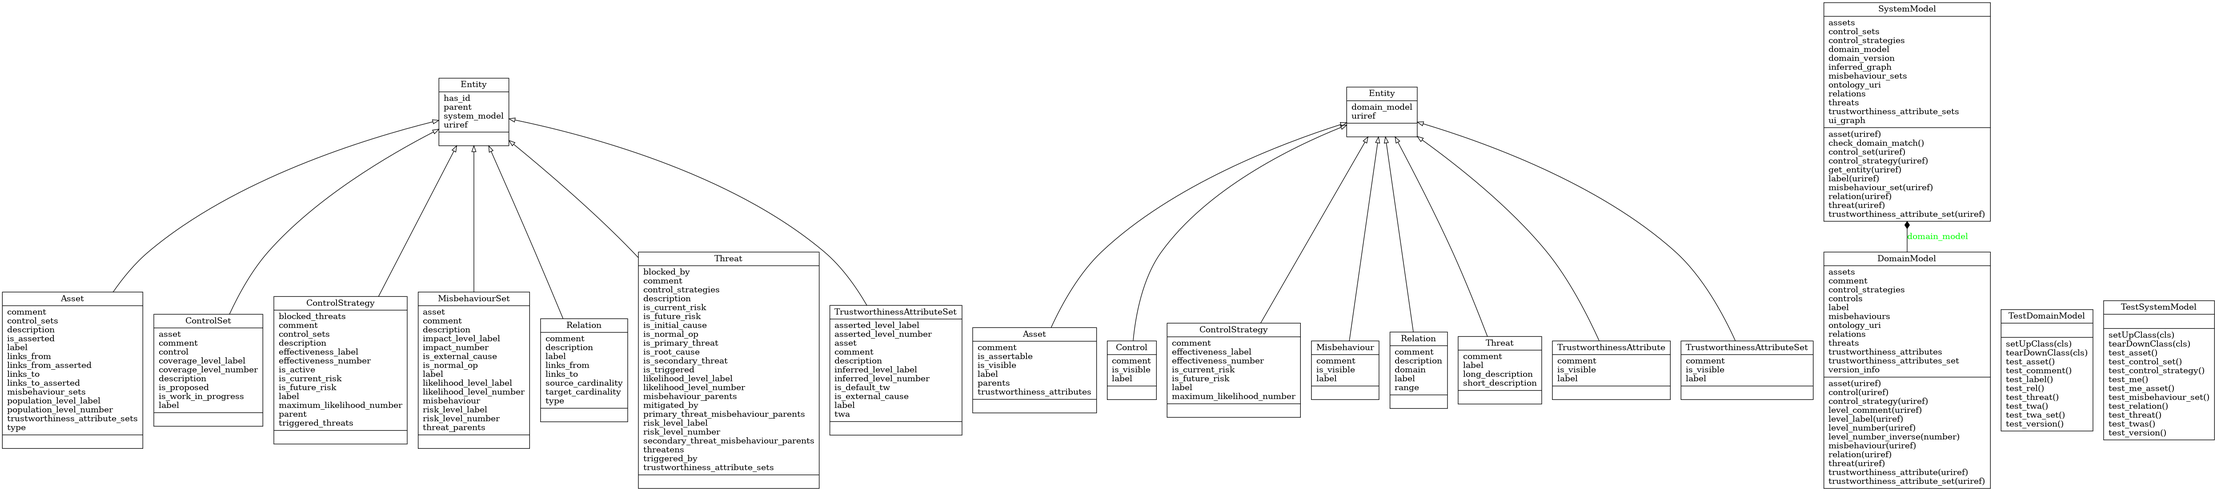
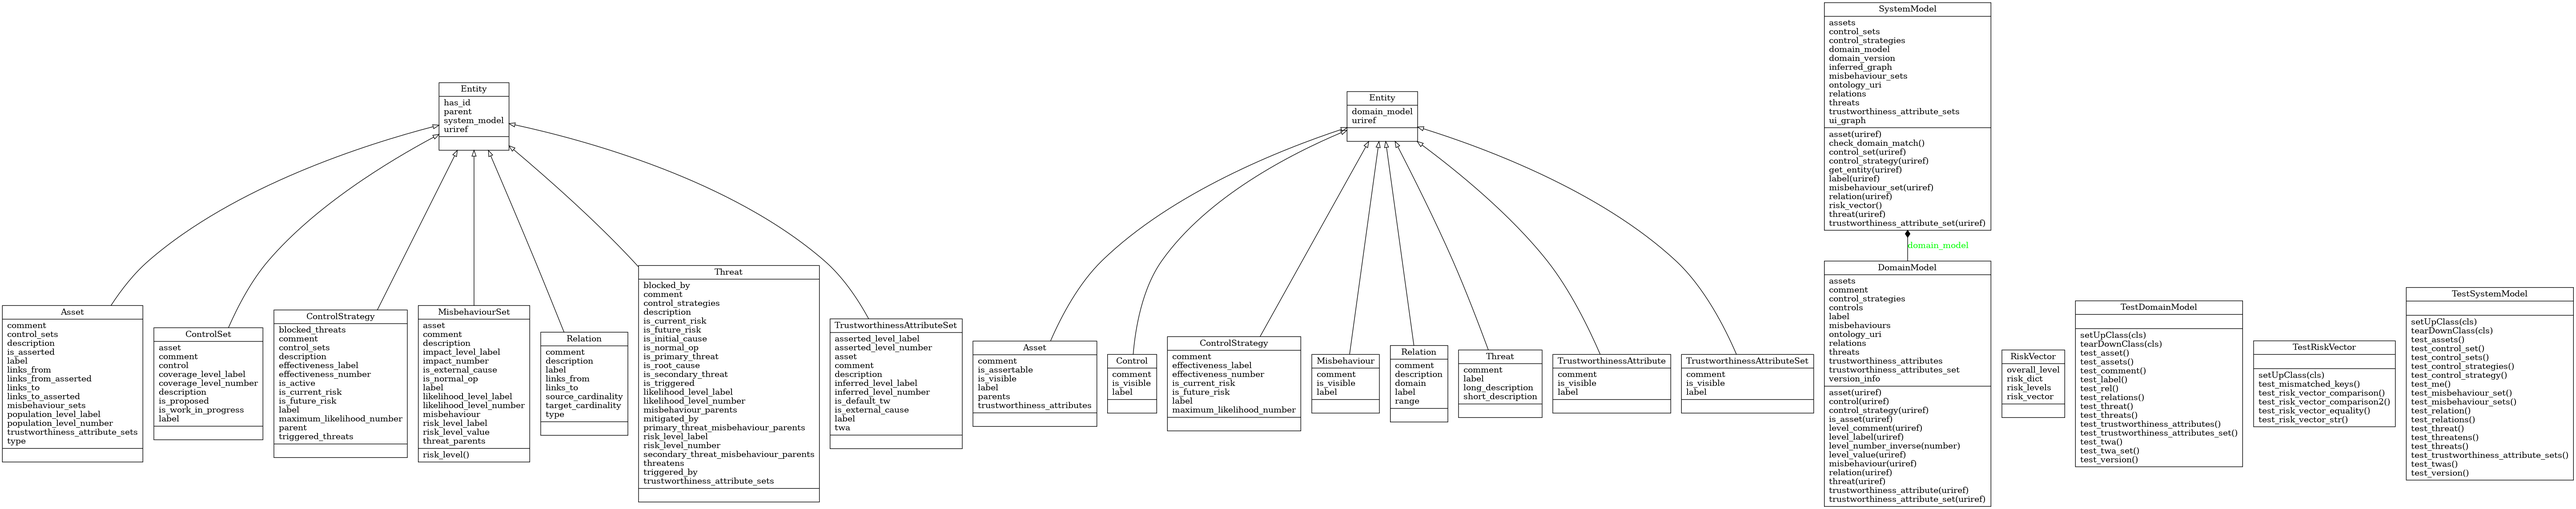
#2 minor adjustments for risk vector and system modeller

diff --git a/spyderisk/system_model.py b/spyderisk/system_model.py
@@ -253,13 +253,8 @@ class SystemModel(ConjunctiveGraph):
     def trustworthiness_attribute_sets(self):
         return [self.trustworthiness_attribute_set(uriref) for uriref in self.subjects(PREDICATE['type'], OBJECT['trustworthiness_attribute_set'])]
 
-    def risk_vector(self):
-        rv = defaultdict(int)
-        for ms in self.misbehaviour_sets:
-            rv[ms.risk_level_label] += 1
-        return rv
 
-    def risk_vector_level(self):
+    def risk_vector(self):
         rv = defaultdict(int)
         rl_map = defaultdict(int)
         for ms in self.misbehaviour_sets:
@@ -487,16 +482,26 @@ class ControlStrategy(Entity):
     @property
     def is_active(self):
         # TODO: do we need to check sufficient CS?
-        control_sets = self.control_sets
         all_proposed = True
-        for cs in control_sets:
+        for cs in self.mandatory_control_sets:
             all_proposed &= cs.is_proposed
         return all_proposed
+
+    @property
+    def mandatory_control_sets(self):
+        return [self.system_model.control_set(cs_uriref) for cs_uriref in self.system_model.objects(self.uriref, PREDICATE['has_mandatory_control_set'])]
+
+    @property
+    def optional_control_sets(self):
+        return [self.system_model.control_set(cs_uriref) for cs_uriref in self.system_model.objects(self.uriref, PREDICATE['has_optional_control_set'])]
 
     # TODO: deal with optional control sets
     @property
     def control_sets(self):
-        return [self.system_model.control_set(cs_uriref) for cs_uriref in self.system_model.objects(self.uriref, PREDICATE['has_mandatory_control_set'])]
+        #return [self.system_model.control_set(cs_uriref) for cs_uriref in self.system_model.objects(self.uriref, PREDICATE['has_mandatory_control_set'])]
+        return self.mandatory_control_sets + self.optional_control_sets
+
+
 
 class MisbehaviourSet(Entity):
     """Represents a Misbehaviour Set, or "Consequence" (a Misbehaviour at an Asset)."""
@@ -554,6 +559,11 @@ class MisbehaviourSet(Entity):
     def asset(self):
         return self.system_model.asset(self.system_model.value(self.uriref, PREDICATE['located_at']))
 
+    #TODO is it located_ at or asset?
+    @property
+    def located_at(self):
+        return self.system_model.asset(self.system_model.value(self.uriref, PREDICATE['located_at']))
+
     @property
     def misbehaviour(self):
         return self.system_model.domain_model.misbehaviour(self.system_model.value(self.uriref, PREDICATE['has_misbehaviour']))
@@ -594,6 +604,11 @@ class MisbehaviourSet(Entity):
     @property
     def is_external_cause(self):
         # if the domain model doesn't support mixed cause Threats, then some MS may be external causes
+        return (self.uriref, PREDICATE['is_external_cause'], Literal(True)) in self.system_model
+
+    #TODO 
+    @property
+    def caused_by(self):
         return (self.uriref, PREDICATE['is_external_cause'], Literal(True)) in self.system_model
 
     @property
@@ -712,6 +727,7 @@ class TrustworthinessAttributeSet(Entity):
     def is_default_tw(self):
         """Return Boolean describing whether this is a TWAS which has the Default TW attribute"""
         return (self.uriref, PREDICATE['has_twa'], DEFAULT_TW) in self.system_model
+
 
 class Threat(Entity):
     """Represents a Threat."""

diff --git a/spyderisk/risk_vector.py b/spyderisk/risk_vector.py
@@ -40,7 +40,7 @@ class RiskVector:
             # If keys do not match, set object to None or raise an error
             raise ValueError("Keys in risk_dict and risk_levels must match.")
 
-        self.sorted_levels = self._sort_dict(self.risk_levels)
+        self._sorted_levels = self._sort_dict(self.risk_levels)
 
     def _normalise_dict(self, a_dict):
         return {str(key): value for key, value in a_dict.items()}
@@ -57,10 +57,10 @@ class RiskVector:
     def overall_level(self):
         if not self.risk_levels:
             return None
-        return self.sorted_levels[0][0]
+        return self._sorted_levels[0][0]
 
     def __str__(self):
-        return "\n".join([f"{str(level[0])}: {self.risk_dict[level[0]]}" for level in self.sorted_levels])
+        return "\n".join([f"{str(level[0])}: {self.risk_dict[level[0]]}" for level in self._sorted_levels])
 
     def __eq__(self, other):
         if not isinstance(other, RiskVector):

diff --git a/spyderisk/tests/test_domain_model.py b/spyderisk/tests/test_domain_model.py
@@ -25,7 +25,7 @@ from spyderisk.domain_model import DomainModel
 from spyderisk.domain_model import TrustworthinessAttribute, TrustworthinessAttributeSet
 from spyderisk.domain_model import Asset, Relation, Threat
 
-@unittest.skip("temporarily skipping domain model test")
+#@unittest.skip("temporarily skipping domain model test")
 class TestDomainModel(unittest.TestCase):
     @classmethod
     def setUpClass(cls):
